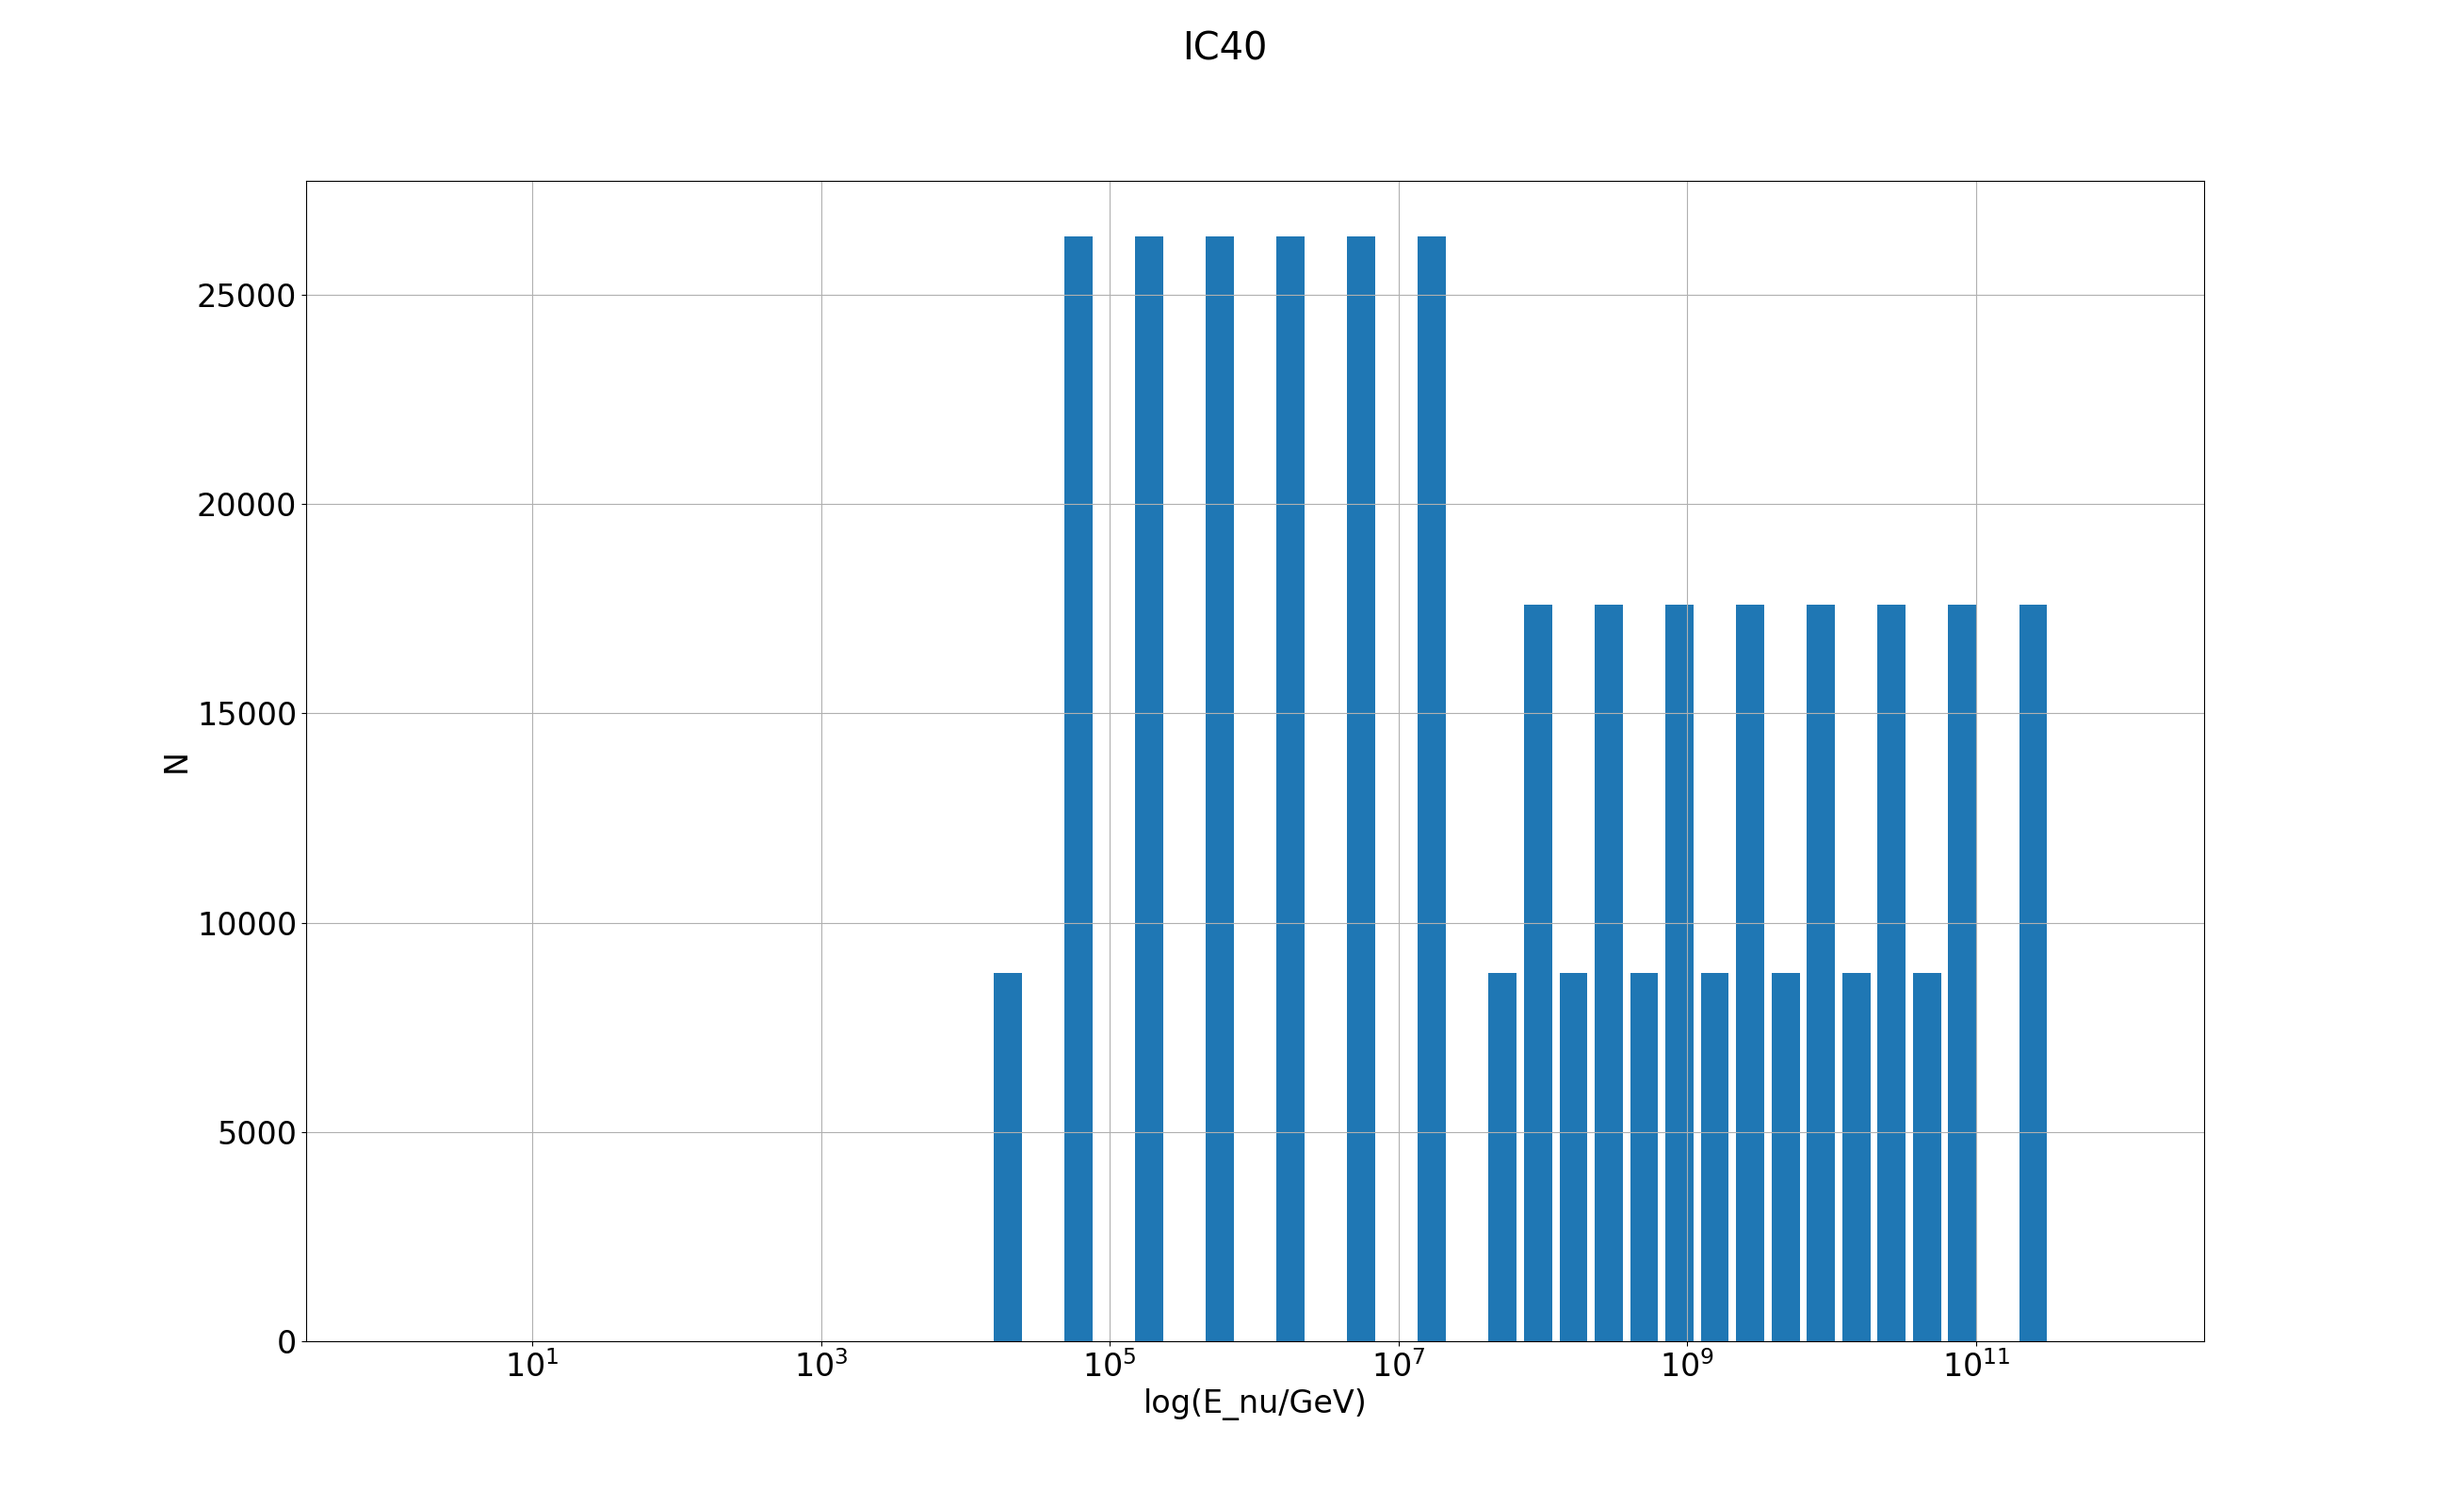
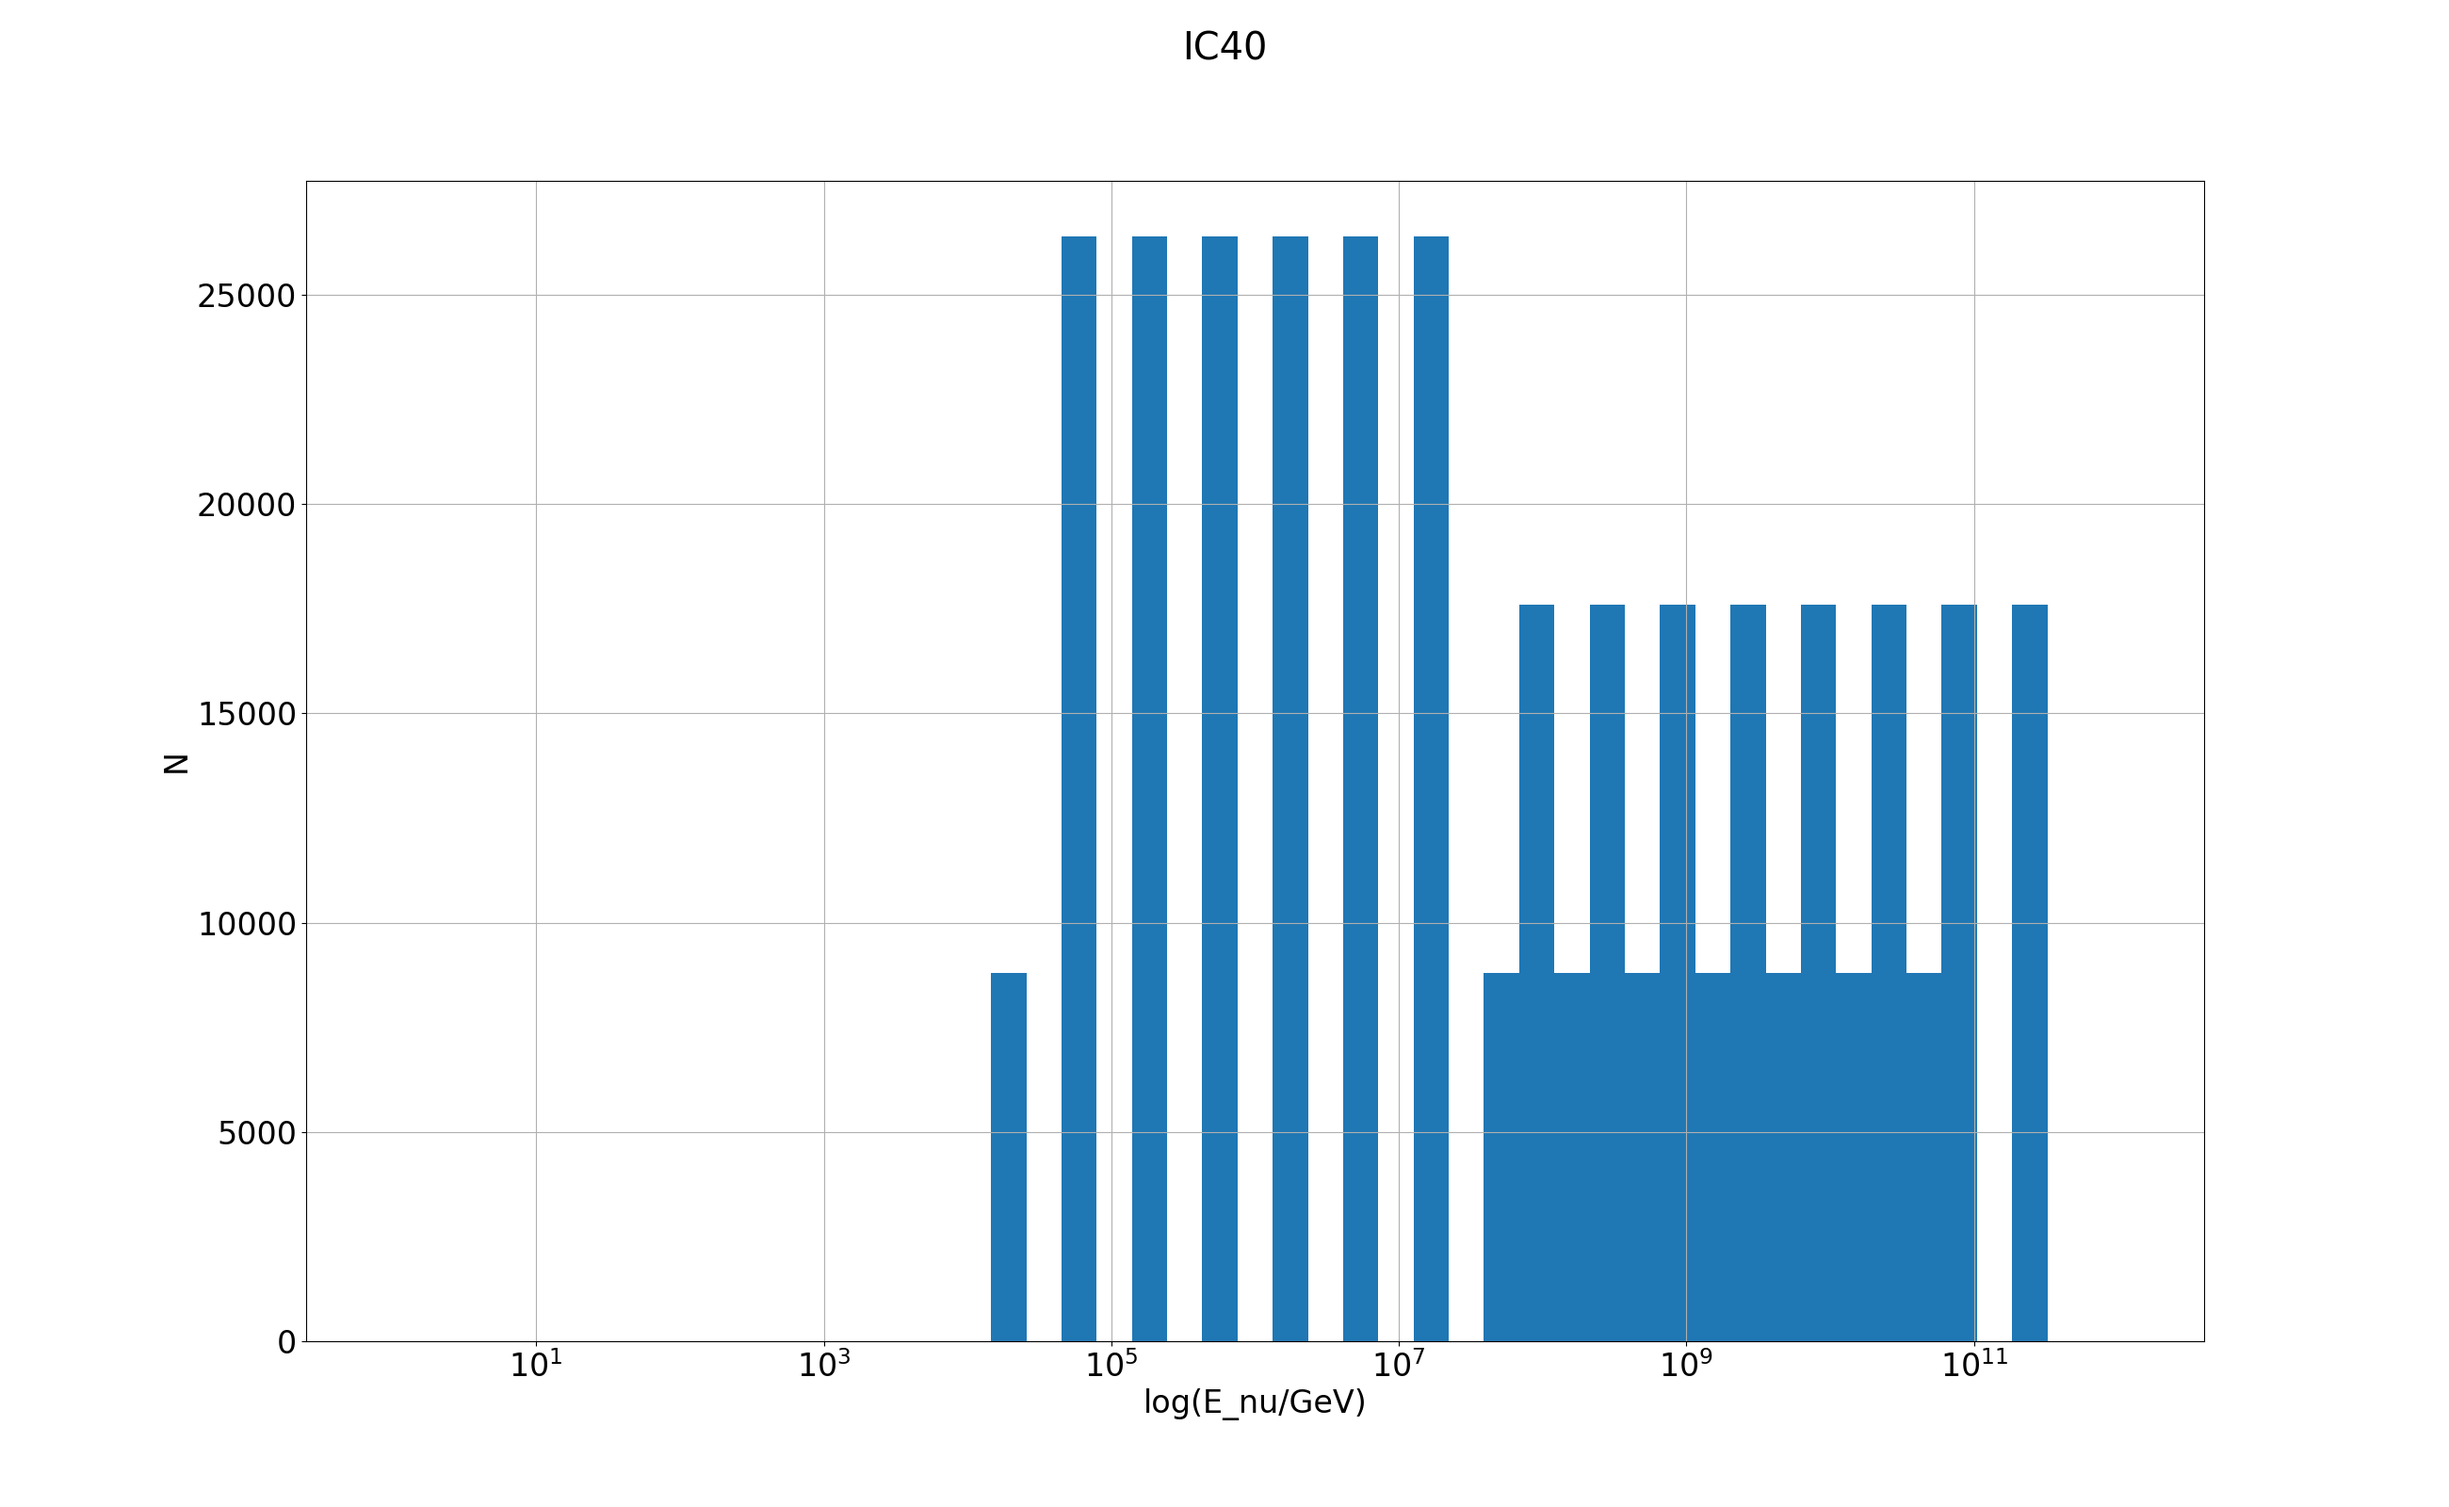
06062022-00.00-task1bdone

Changed region(s): [[0.5608, 0.1562, 0.8412, 0.9062], [0.405, 0.1562, 0.4673, 0.9062]]

diff --git a/Task1b/hist.py b/Task1b/hist.py
@@ -4,6 +4,8 @@ import pylab as pl
 import numpy as np
 import matplotlib.pyplot as plt
 
+#FUNCTION TO PLOT HISTOGRAMS OF N VS E BINNED IN LOG E
+
 def n_e_hist(file):
     with open(file, 'r') as f2:
         lines = f2.readlines()
@@ -35,14 +37,14 @@ def n_e_hist(file):
 
     plt.figure(figsize=(26,16))
     plt.rcParams.update({'font.size': 24})
-    plt.hist(yax, bins= np.logspace(np.log10(1),12), rwidth=0.8)
+    plt.hist(yax, bins= np.logspace(np.log10(1),12))
     plt.xscale("log")
     plt.xlabel("log(E_nu/GeV)")
     plt.ylabel("N")
     plt.suptitle(file.replace('icecube_10year_ps/irfs/','').replace('_smearing','').replace('.csv',''))
     plt.grid(True, which="major")
     #plt.show()
-    plt.savefig(file.replace('icecube_10year_ps/irfs/','Task1b/histogram/smearing').replace('.csv','.png').replace('smearingIC','IC'))
+    plt.savefig(file.replace('icecube_10year_ps/irfs/','Task1b/histogram/smearing/').replace('.csv','.png'))
 
 filenames = ["icecube_10year_ps/irfs/IC40_smearing.csv", "icecube_10year_ps/irfs/IC59_smearing.csv",
  "icecube_10year_ps/irfs/IC79_smearing.csv", "icecube_10year_ps/irfs/IC86_I_smearing.csv", "icecube_10year_ps/irfs/IC86_II_smearing.csv"]
